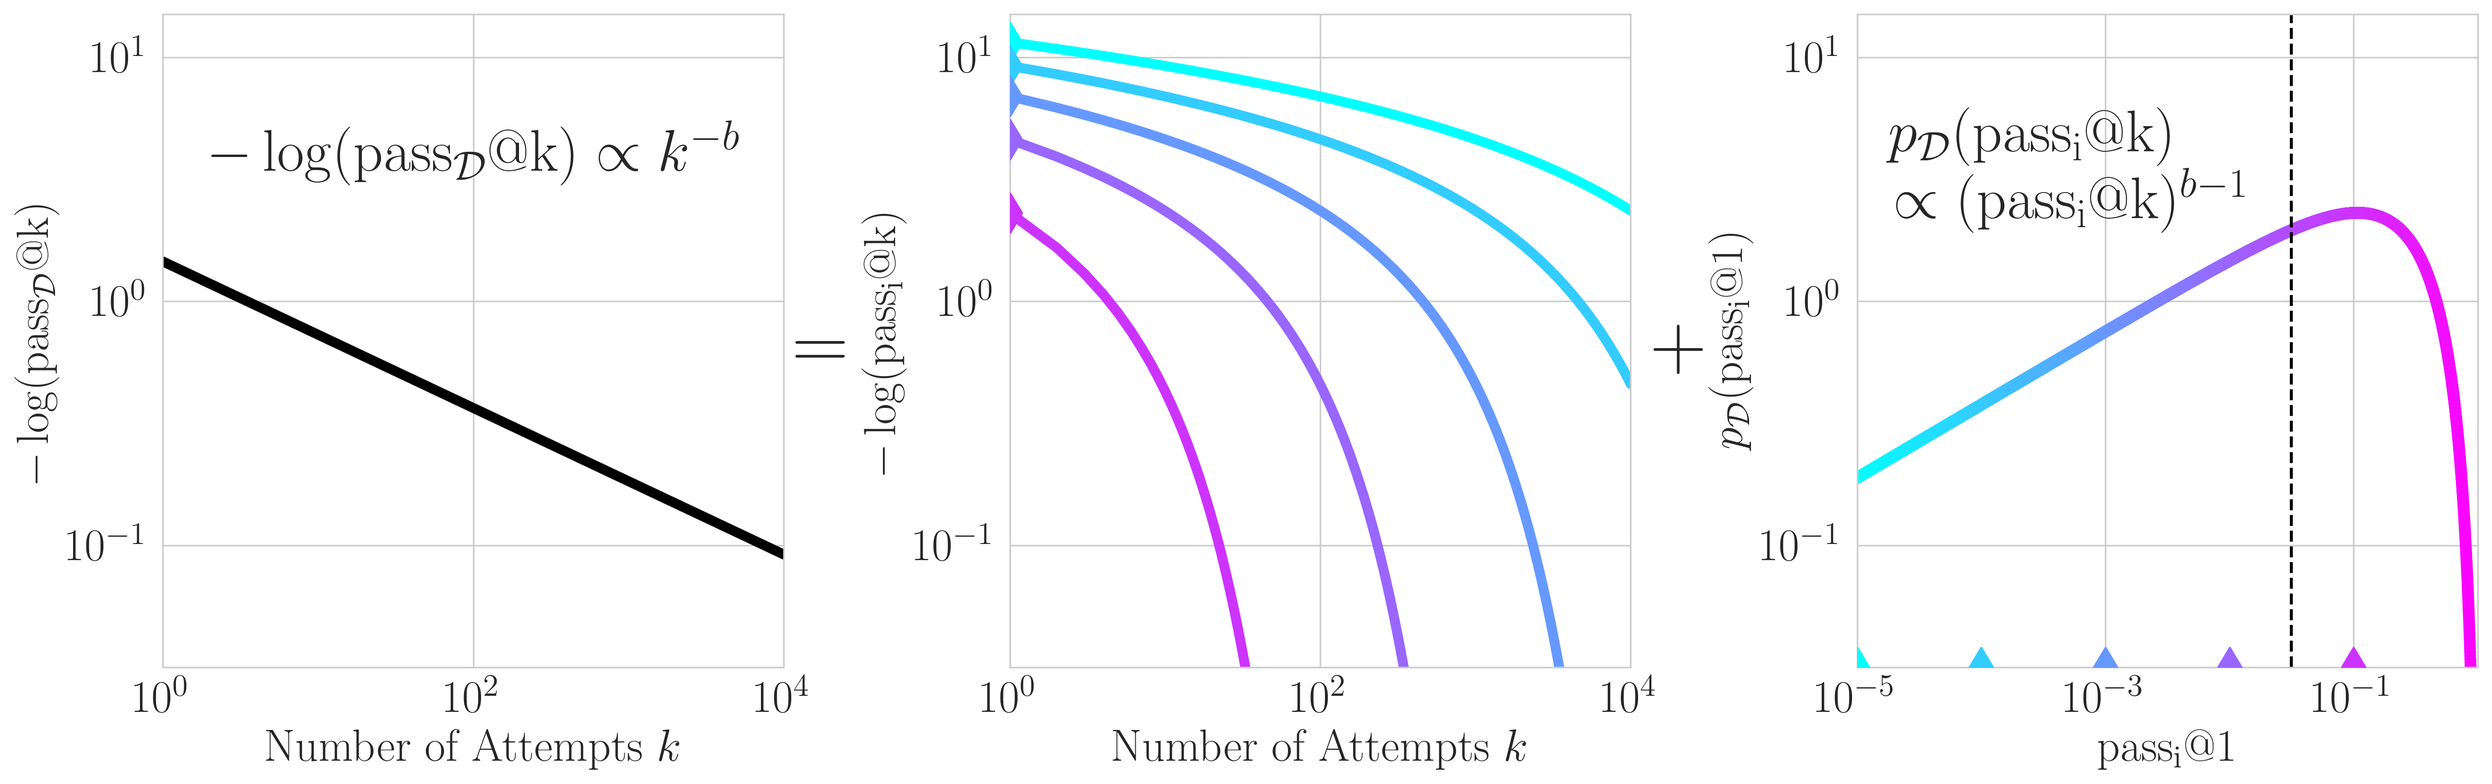
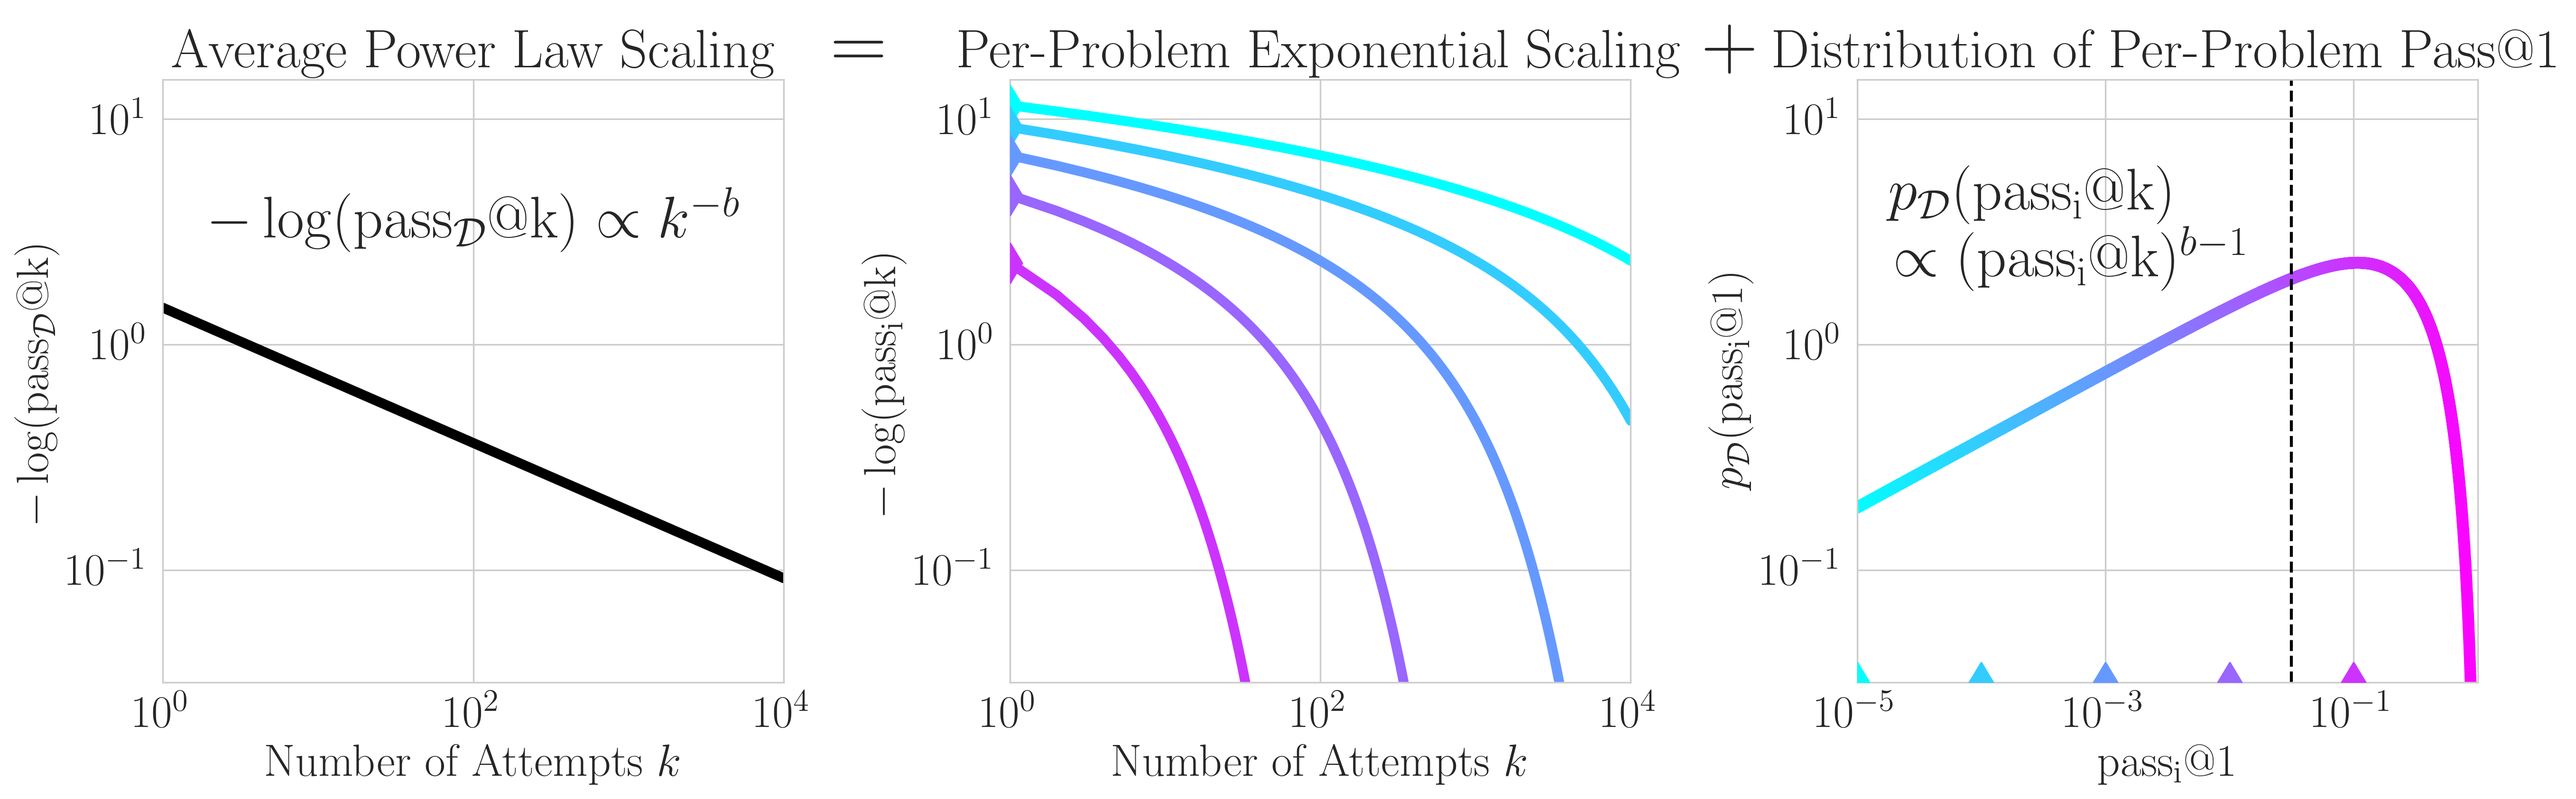
Polished schematic figure.

diff --git a/notebooks/90_schematic_attempt_1/90_schematic_attempt_1.py b/notebooks/90_schematic_attempt_1/90_schematic_attempt_1.py
@@ -56,6 +56,7 @@ ax1.set(
     ylim=(3.162e-2, 1.5e1),
     xlabel=r"Number of Attempts $k$",
     ylabel=r"$-\log(\operatorname{pass_{\mathcal{D}}@k})$",
+    title="Average Power Law Scaling",
 )
 # Second subplot - Pass@k for different pass@1 values
 ax2 = fig.add_subplot(132)
@@ -84,6 +85,7 @@ ax2.set(
     ylim=(3.162e-2, 1.5e1),
     xlabel=r"Number of Attempts $k$",
     ylabel=r"$-\log (\operatorname{pass_i@k})$",
+    title="Per-Problem Exponential Scaling",
 )
 # Third subplot - Expected pass@k
 ax3 = fig.add_subplot(133)
@@ -120,16 +122,17 @@ ax3.set(
     ylim=(3.162e-2, 1.5e1),
     ylabel=r"$p_{\mathcal{D}}(\operatorname{pass_i@1})$",
     yscale="log",
+    title="Distribution of Per-Problem Pass@1",
 )
 ax3.axvline(3.162e-2, color="k", linestyle="--")
 # Add equals sign between ax1 and ax2
-fig.text(0.335, 0.55, "=", fontsize=40, ha="center", va="center")
+fig.text(0.35, 0.92, "=", fontsize=40, ha="center", va="center")
 # Add plus sign between ax2 and ax3
-fig.text(0.67, 0.55, "+", fontsize=40, ha="center", va="center")
+fig.text(0.69, 0.92, "+", fontsize=40, ha="center", va="center")
 # Create text in axes.
 fig.text(
     0.20,
-    0.78,
+    0.72,
     r"$-\log(\operatorname{pass_{\mathcal{D}}@k}) \propto k^{-b}$",
     fontsize=30,
     ha="center",
@@ -137,7 +140,7 @@ fig.text(
 )
 fig.text(
     0.82,
-    0.76,
+    0.71,
     r"$p_{\mathcal{D}}(\operatorname{pass_i@k}) \\ \text{    } \propto  (\operatorname{pass_i@k})^{b-1}$",
     fontsize=30,
     ha="center",
